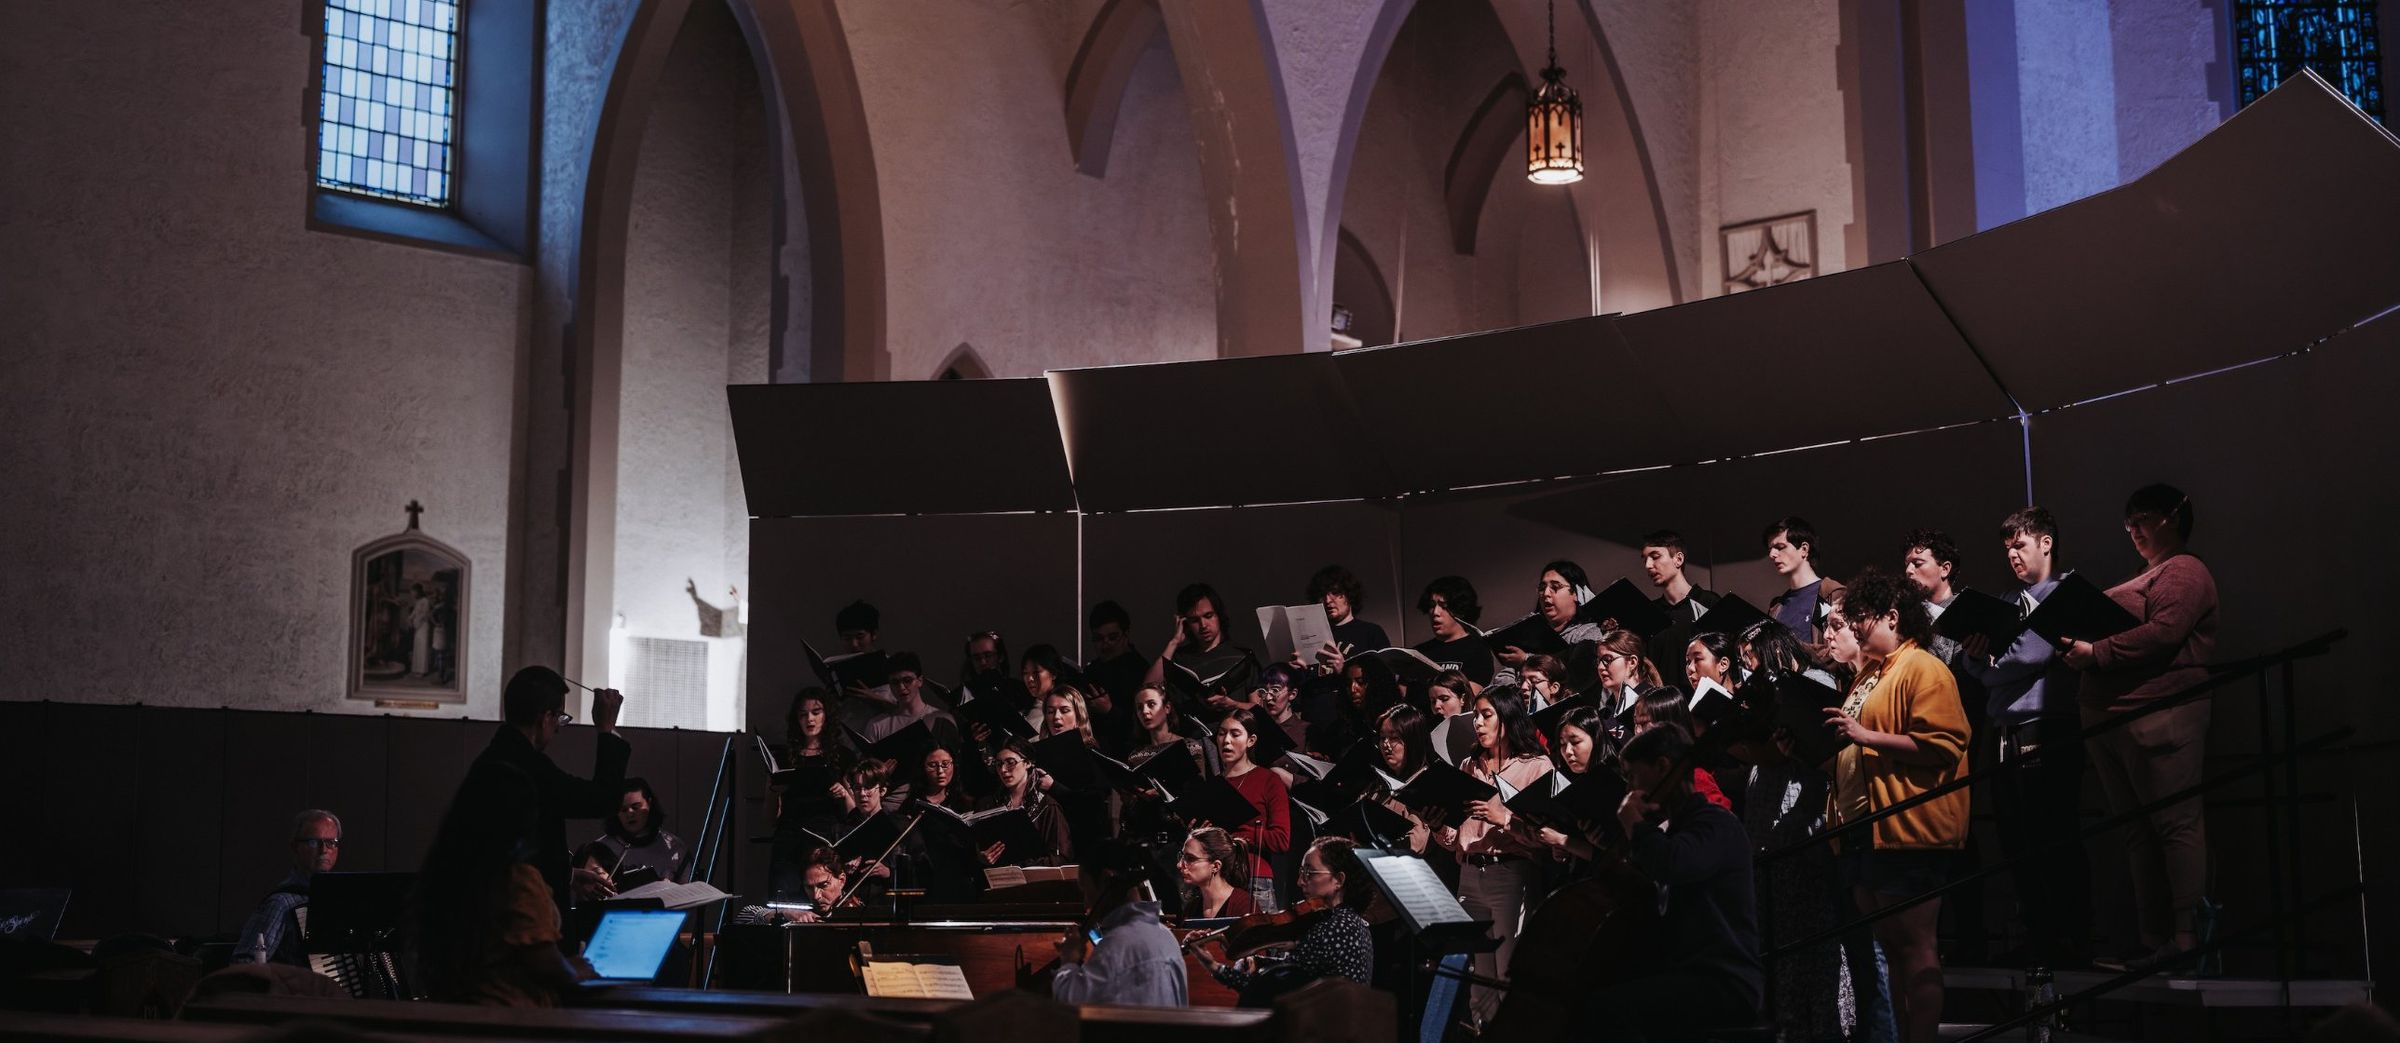
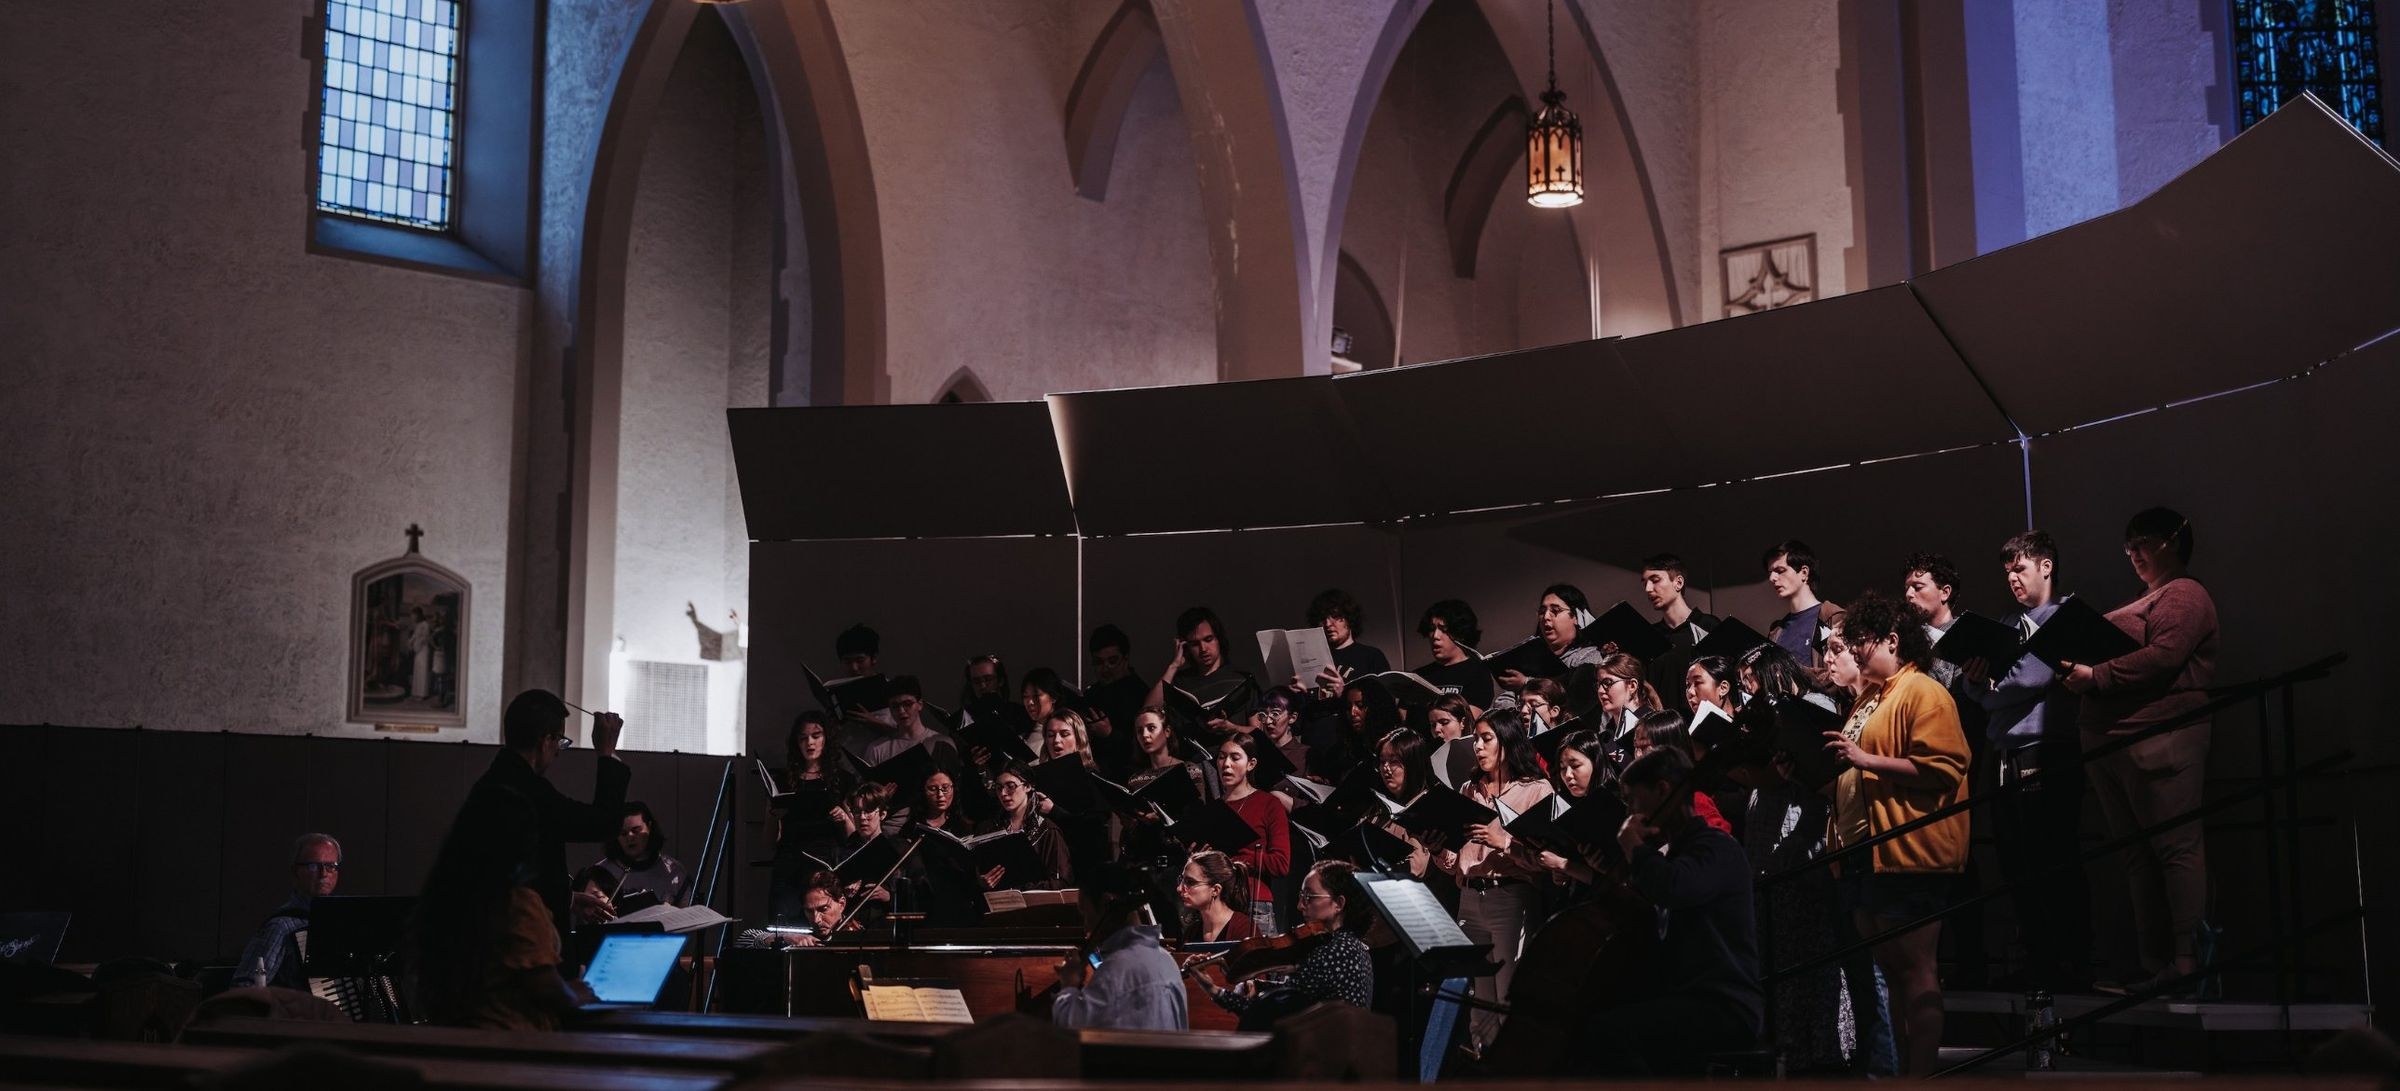
Events header: crop from the top only, anchor photo to the bottom
Image keeps the full bottom edge (only the top is trimmed), and the header
anchors it bottom so wider screens also trim from the top. PhotoSlot gains
an optional per-photo object-position (3rd item in the SRC map).

Claude-Session: https://claude.ai/code/session_01TftLCcLTjCtKVwBNQEq2CG

diff --git a/photos.js b/photos.js
@@ -67,7 +67,7 @@
     'SING-EXPECT-03': ['photos/sing-expect-03.jpg', 'A smiling vocal instructor during a lesson'],
     'ABOUT-CHOIR-01': ['photos/about-choir-01.jpg', 'The Ottawa Regional Youth Choir performing by candlelight to a full church, seen from the back of the nave'],
     'ABOUT-HERO-01': ['photos/about-hero-01.jpg', 'The Ottawa Regional Youth Choir and chamber ensemble in concert by candlelight, the conductor at the centre'],
-    'EVENTS-HERO-01': ['photos/events-hero-01.jpg', 'The choir and string players in rehearsal at St. Joseph\'s Parish, with the conductor in front'],
+    'EVENTS-HERO-01': ['photos/events-hero-01.jpg', 'The choir and string players in rehearsal at St. Joseph\'s Parish, with the conductor in front', 'center bottom'],
     'HOME-HERO-01': ['photos/home-hero-01.jpg', 'The Ottawa Regional Youth Choir performing in concert, with the conductor and instrumentalists in front'],
     'HOME-NEXT-01': ['photos/posters/durufle.jpg', "Poster for Duruflé's Requiem, Sunday November 8, 2026, 3 pm, St. Barnabas Apostle and Martyr"],
     'EVENT-DETAIL-HERO': ['photos/posters/durufle.jpg', "Poster for Duruflé's Requiem, Sunday November 8, 2026, 3 pm, St. Barnabas Apostle and Martyr"],
@@ -78,7 +78,7 @@
     'EVENT-CARD-05': ['photos/posters/darkness-to-light.jpg', 'Poster for From Darkness to Light: Rachmaninoff All-Night Vigil and Gjeilo Sunrise Mass'],
     'HOME-JOIN-01': ['photos/home-join-01.jpg', 'A chorister holding an open score of Misa a Buenos Aires at the Kyrie'],
   };
-  R.forEach(r => { const x = SRC[r.id]; if (x) { r.src = x[0]; if (x[1]) r.alt = x[1]; } });
+  R.forEach(r => { const x = SRC[r.id]; if (x) { r.src = x[0]; if (x[1]) r.alt = x[1]; if (x[2]) r.pos = x[2]; } });
 
   // Headshots by person. Every About-page slot for that person (artistic team, management,
   // board, section leads) picks up the same photo, so someone with several roles appears consistently.

diff --git a/PhotoSlot.dc.html b/PhotoSlot.dc.html
@@ -10,7 +10,7 @@
 <helmet><script src="photos.js"></script></helmet>
 <div role="img" aria-label="{{ alt }}" data-slot-id="{{ id }}" title="{{ tip }}" style="position:relative;width:100%;height:{{ h }};aspect-ratio:{{ ar }};border-radius:{{ radius }};overflow:hidden;background:{{ bg }};color:{{ fg }};font-family:'Glacial Indifference',sans-serif;">
   <sc-if value="{{ hasSrc }}" hint-placeholder-val="{{ false }}">
-    <img src="{{ src }}" alt="{{ alt }}" style="position:absolute;inset:0;width:100%;height:100%;object-fit:cover;filter:{{ filter }};">
+    <img src="{{ src }}" alt="{{ alt }}" style="position:absolute;inset:0;width:100%;height:100%;object-fit:cover;object-position:{{ pos }};filter:{{ filter }};">
     <sc-if value="{{ isDuo }}" hint-placeholder-val="{{ false }}"><div style="position:absolute;inset:0;background:#E41E26;mix-blend-mode:multiply;"></div></sc-if>
   </sc-if>
   <sc-if value="{{ showFull }}" hint-placeholder-val="{{ true }}">
@@ -64,7 +64,7 @@ class Component extends DCLogic {
       ar: p.fill ? 'auto' : rw + ' / ' + rh,
       h: p.fill ? '100%' : 'auto',
       radius, bg: pal[0], fg: pal[1],
-      src: d.src, hasSrc: !!d.src,
+      src: d.src, hasSrc: !!d.src, pos: d.pos || 'center',
       filter: d.treat === 'none' ? 'none' : 'grayscale(1) contrast(1.05)',
       isDuo: d.treat === 'duotone',
       showFull: !d.src && !centered && !!window.ORYC_SHOW_SLOT_SPECS, showCenter: !d.src && centered && !!window.ORYC_SHOW_SLOT_SPECS,
